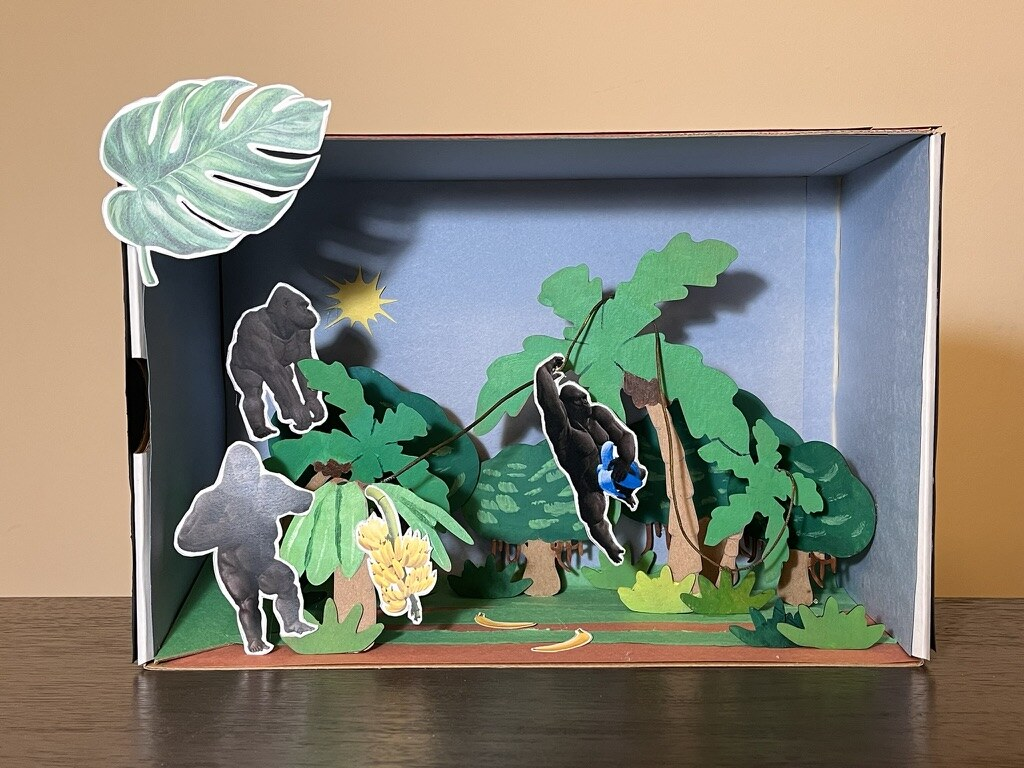
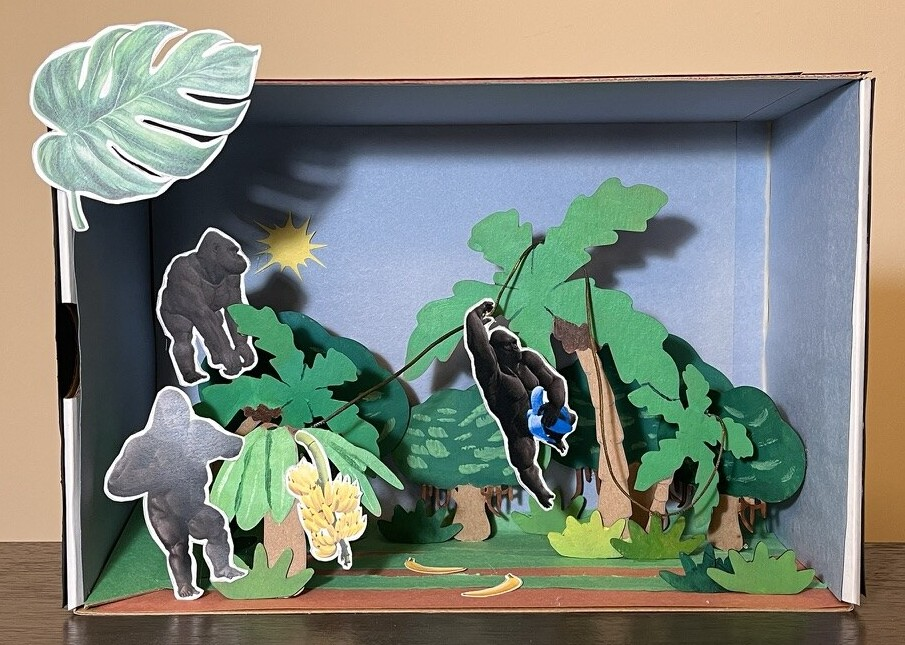
Drawing: crop to the paper, drop dim figure sketches and duplicate diorama photo
Claude-Session: https://claude.ai/code/session_019VB4RpweyewyoMnvTuPGAf

diff --git a/src/data/projects.ts b/src/data/projects.ts
@@ -794,8 +794,8 @@ export const design: Project[] = [
     title: 'Drawing',
     meta: 'ART 011 · Fall 2025',
     cover: `${D}/drawing/folds.jpg`,
-    blurb: 'Figure, still life, folds and a jungle diorama, drawn and built.',
-    intro: 'Work from a semester of drawing: figure studies, a still life, drapery folds, and a jungle diorama that was built and then drawn.',
+    blurb: 'Drapery folds, a still life, and a jungle diorama, built and then drawn.',
+    intro: 'Work from a semester of drawing: drapery folds, a still life, and a jungle diorama that was built and then drawn.',
     sections: [
       {
         media: [
@@ -807,18 +807,9 @@ export const design: Project[] = [
       {
         media: [
           img(`${D}/drawing/diorama-1.jpg`, 'Jungle diorama'),
-          img(`${D}/drawing/diorama-2.jpg`, 'Jungle diorama'),
           img(`${D}/drawing/diorama-drawing.jpg`, 'Drawing of the diorama'),
         ],
-        layout: 'grid3',
-      },
-      {
-        media: [
-          img(`${D}/drawing/figure-1.jpg`, 'Figure study'),
-          img(`${D}/drawing/figure-2.jpg`, 'Figure study'),
-          img(`${D}/drawing/figure-3.jpg`, 'Figure study'),
-        ],
-        layout: 'grid3',
+        layout: 'grid2',
       },
     ],
   },
